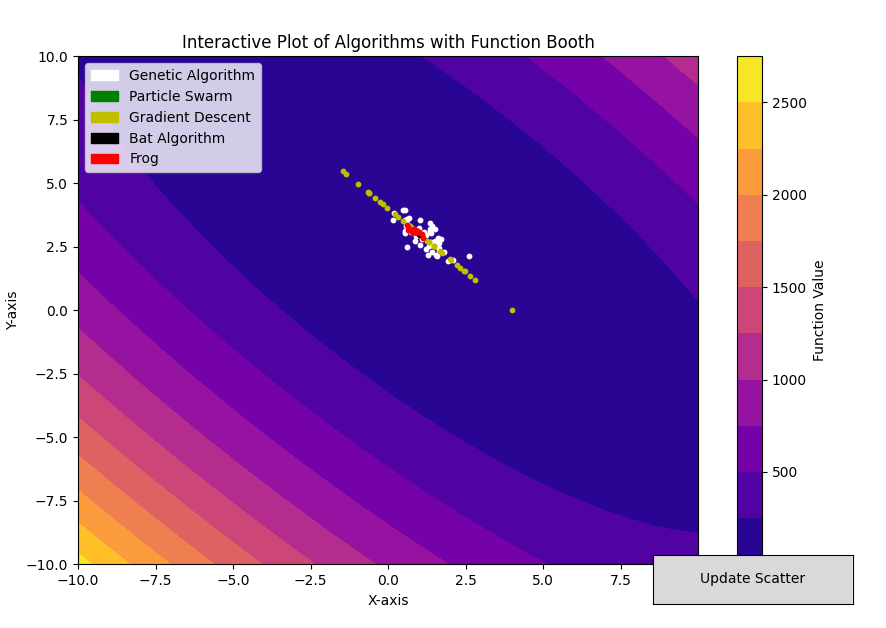
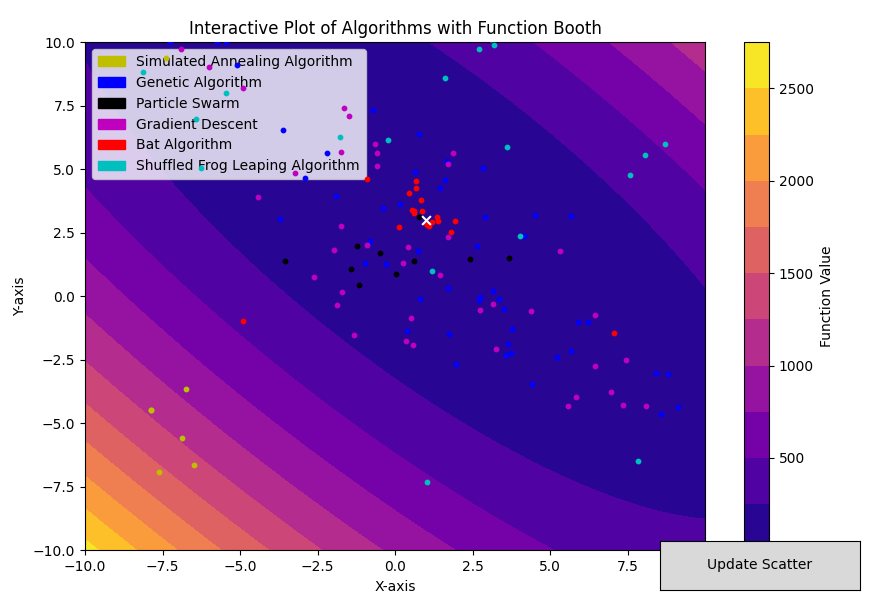
feat : almost done with informe

diff --git a/src/plot/simulated_annealing.py b/src/plot/simulated_annealing.py
@@ -2,60 +2,68 @@ import numpy as np
 from plot.alg import Alg
 from plot.bounded_function import BoundedFunction
 
+
 class SimulatedAnnealing(Alg):
-    def __init__(self, initial_temperature=1000, cooling_rate=0.99, final_temperature= 0.01, max_iterations=100000, x1_range = (-1, 1), x2_range = (-1, 1)):
+    def __init__(
+        self,
+        initial_temperature=1000,
+        x1_range=(-1, 1),
+        x2_range=(-1, 1),
+        cooling_rate = 0.01
+    ):
         super().__init__("Simulated Annealing Algorithm", x1_range, x2_range)
+        self.current_temperature = initial_temperature
+        self.current_solution = None
         self.initial_temperature = initial_temperature
         self.cooling_rate = cooling_rate
-        self.final_temperature = final_temperature
-        self.temperature = initial_temperature
-        self.max_iterations = max_iterations
-        self.current_temperature = initial_temperature
-        self.best_solution = None
-        self.function_value = None
-        self.current_solution = None
-        self.bounds = None
-        self.point = []
+        self.iteration = 0
+        self.points = []
 
     def get_points(self) -> list[tuple[float, float]]:
-        return self.point
+        return self.points
 
-    def update_points(self, f : BoundedFunction):
-        best_f = f(self.current_solution)
-        self.best_pos = self.best_solution.copy()
-        new_x = self.x + np.random.normal(0, 0.1, size=len(self.bounds))
-        new_x = np.clip(new_x, self.bounds[:, 0], self.bounds[:, 1])
+    def check_inside(self, el):
+        x = el[0]
+        y = el[1]
+        if el[0] < self.x1_range[0]:
+            x = self.x1_range[0]
+        if el[0] > self.x1_range[1]:
+            x = self.x1_range[1]
+        if el[1] < self.x2_range[0]:
+            y = self.x2_range[0]
+        if el[1] > self.x2_range[1]:
+            y = self.x2_range[1]
+        return (x, y)
+
+    def update_points(self, f: BoundedFunction):
+        self.iteration += 1
+        best_f = f(self.best_pos)
         
+        new_x = self.current_solution
+
+        dx = np.random.normal(0, (self.x1_range[1] - self.x1_range[0])/10, size=1)
+        dy = np.random.normal(0, (self.x2_range[1] - self.x2_range[0])/10, size=1)
+
+        new_x = (new_x[0]+ dx[0], new_x[0]+dy[0])
+        new_x = self.check_inside(new_x)
+
         # Calculate the change in function value
-        delta_f = f(new_x) - f(self.x)
-        
-        if delta_f <= 0:
+        delta_f = f(new_x) - f(self.current_solution)
+        probability = np.exp(-delta_f / self.current_temperature)
+        if delta_f <= 0 or np.random.rand() < probability:
             # Accept if new solution is better
-            self.x = new_x
-            if f(self.x) < best_f:
-                self.best_solution = self.x.copy()
-                best_f = f(self.x)
-                self.point.append(self.x)
-        else:
-            # Accept with probability based on temperature
-            probability = np.exp(-delta_f / self.temperature)
-            if np.random.rand() < probability:
-                self.x = new_x
-                if f(self.x) < best_f:
-                    self.best_solution = self.x.copy()
-                    best_f = f(self.x)
-                    self.point.append(self.x)
-        
+            self.current_solution = new_x
+            new_fitness = f(self.current_solution)
+            if new_fitness < best_f:
+                self.best_pos = self.current_solution
+                best_f = new_fitness
         # Update temperature
-        self.temperature *= self.cooling_rate  # Cooling schedule
-        if self.temperature <= self.final_temperature:
-            return
- 
+        self.current_temperature = self.initial_temperature / np.log(self.iteration + 2)
+        self.points.append(self.current_solution)
+
     def initialize_points(self):
         dimensions = 2
-        self.bounds = np.array([(-100, 100), (-100, 100)])
+        self.bounds = np.array([self.x1_range, self.x2_range])
         x = np.array([np.random.uniform(b[0], b[1]) for b in self.bounds])
-        self.initial_point = x.copy()
-        self.best_solution = x.copy() 
-        self.x = x.copy()
-        self.current_solution = x.copy()
+        self.best_pos = x
+        self.current_solution = x

diff --git a/src/plot/main.py b/src/plot/main.py
@@ -22,8 +22,8 @@ call this function passing an Algoritm and a Function to Test.
 """
 
 one_plot([
+    SimulatedAnnealing(),
     Genetic_Algorithm(), 
     ParticleSwarm(10), 
-    GradientDescent(40),
     Bat(20),
-    SFLA("Frog",booth.f, 10, 10, 2, 6,6, 100, bounds=(-100, 100))], booth)
+    SFLA("Shuffled Frog Leaping Algorithm",bukin.f, 10, 10, 2, 6,6, 100, bounds=(-100, 100))], bukin)

diff --git a/report/Informe.md b/report/Informe.md
@@ -42,7 +42,7 @@ Particle Swarm Optimization with function Schaffer No. 1 and 100 runs
 
 ![](./images/pso_sc2.png)
 
-Podemos comprobar la eficacia de el algoritmo de Particle Swarm Optimization con la dos funciones anteriores, sin embargo con la función Bukin no es capaz de encontrar el mínimo con la misma eficacia.
+Podemos comprobar la eficacia de el algoritmo de Particle Swarm Optimization con la dos funciones anteriores dado que encontró el mínimo relativamente rápido y con desviación estándar baja, lo que significa estabilidad en el resultado. Sin embargo con la función Bukin no es capaz de encontrar el mínimo con la misma eficacia.
 
 Particle Swarm Optimization with function Bukin and 100 runs
 |                   |   Promedio |   Mediana |   Desv. Est. |
@@ -138,7 +138,7 @@ Shuffled Frog Leaping Algorithm with function Schaffer 2 and 20 runs
 | Error c.r. Mínimo | 3.4972e-16  | 0           |  9.90699e-16 |
 | Error c.r. Óptimo | 0.000566035 | 0.000476457 |  0.000382822 |
 
-Como se puede observar por las estadísticas la función Ripple No 25 fue en la peor comportamiento tuvo el algoritmo. La duración para converger de este algoritmo es bastante comparada con los restantes algoritmos. 
+Como se puede observar por las estadísticas la función Ripple No 25 fue en la peor comportamiento tuvo el algoritmo. La duración para converger de este algoritmo es bastante, más de segundo y medio, comparada con los restantes algoritmos. En los últimos dos casos la desviación estándar es baja por lo que posee estabilidad.
 
 ## Algoritmo Genético: Differential Evolution (DE)
 
@@ -366,9 +366,11 @@ Análogamente a como se hizo con los dos algoritmos anteriores :
 
 ![](./images/gen_beale.png)
 
+Como es posible comprobar en la imagen este algoritmo fue capaz de encontrar el mínimo en el caso de la función Ripple 25, con buenos resultados con respecto a rapidez y estabilidad en los tres parámetros que estamos comprobando. 
+
 ## Simulated Annealing:
 
-El algoritmo de Simulated Annealing es una técnica de optimización inspirada en el proceso de enfriamiento de metales fundidos. El cual funciona de la siguiente manera.
+El algoritmo de Simulated Annealing es una técnica de optimización inspirada en el proceso de enfriamiento de metales fundidos. 
 
 ### Funcionamiento del Algoritmo
 
@@ -384,156 +386,40 @@ El algoritmo de Simulated Annealing es una técnica de optimización inspirada e
 
 6. **Conclusión**: El algoritmo termina cuando la temperatura alcanza un valor mínimo o se supera el número máximo de iteraciones.
 
-Trabajamos con la función **Schaffer No. 1** y corrimos 20 veces el algoritmo obteniendo los siguientes resultados.
+Algunas estadísticas con respecto a algunas de las funciones usando este algoritmo:
 
-### Resultados de las 20 ejecuciones:
-```
-Ejecución 1:
-Duración: 0.0189 segundos
-Error absoluto promedio respecto al mínimo real: 0.425197
-Distancia euclidiana promedio respecto al punto óptimo real: 5.619342
-Diferencia estándar de la duración: 0.186079
-Punto óptimo encontrado: [1.1368224534254008, 3.589823835851483] en 0.08382150411093797
+Simulated Annealing Optimization with function Booth and 100 runs
+|                   |   Promedio |   Mediana |   Desv. Est. |
+|:------------------|-----------:|----------:|-------------:|
+| Duración          |  0.0261428 | 0.0224447 |    0.0152329 |
+| Error c.r. Mínimo | 41.6415    | 0.202242  |  137.499     |
+| Error c.r. Óptimo |  0.330224  | 1.66653   |    3.26605   |
 
-Ejecución 2:
-Duración: 0.0200 segundos
-Error absoluto promedio respecto al mínimo real: 0.430092
-Distancia euclidiana promedio respecto al punto óptimo real: 4.436518
-Diferencia estándar de la duración: 0.255969
-Punto óptimo encontrado: [-0.9866316854967326, -0.8947822967086092] en 0.0016017895036985474
+Simulated Annealing Optimization with function Ackley and 100 runs
+|                   |   Promedio |   Mediana |   Desv. Est. |
+|:------------------|-----------:|----------:|-------------:|
+| Duración          |  0.0596633 | 0.0585796 |    0.0300218 |
+| Error c.r. Mínimo |  1.14211   | 0.916012  |    0.762367  |
+| Error c.r. Óptimo |  0.148169  | 0.195648  |    0.175354  |
 
-Ejecución 3:
-Duración: 0.0196 segundos
-Error absoluto promedio respecto al mínimo real: 0.485535
-Distancia euclidiana promedio respecto al punto óptimo real: 8.764836
-Diferencia estándar de la duración: 0.056678
-Punto óptimo encontrado: [-4.855332909253431, 5.1746864579869] en 0.35870738098699984
-
-Ejecución 4:
-Duración: 0.0193 segundos
-Error absoluto promedio respecto al mínimo real: 0.479625
-Distancia euclidiana promedio respecto al punto óptimo real: 7.165770
-Diferencia estándar de la duración: 0.104972
-Punto óptimo encontrado: [-3.7054105440003666, -4.337000652170758] en 0.2631649389426926
-
-Ejecución 5:
-Duración: 0.0194 segundos
-Error absoluto promedio respecto al mínimo real: 0.498885
-Distancia euclidiana promedio respecto al punto óptimo real: 11.467669
-Diferencia estándar de la duración: 0.023224
-Punto óptimo encontrado: [6.197976092428567, 6.747486911855162] en 0.4387209330324816
-
-Ejecución 6:
-Duración: 0.0193 segundos
-Error absoluto promedio respecto al mínimo real: 0.440935
-Distancia euclidiana promedio respecto al punto óptimo real: 6.801864
-Diferencia estándar de la duración: 0.133201
-Punto óptimo encontrado: [4.737969792424383, -2.0195189270246656] en 0.2076971909123832
-
-Ejecución 7:
-Duración: 0.0200 segundos
-Error absoluto promedio respecto al mínimo real: 0.413074
-Distancia euclidiana promedio respecto al punto óptimo real: 4.743940
-Diferencia estándar de la duración: 0.241217
-Punto óptimo encontrado: [-2.1579382173071364, 0.1777609891762874] en 0.010872651154847424
-
-Ejecución 8:
-Duración: 0.0173 segundos
-Error absoluto promedio respecto al mínimo real: 0.449892
-Distancia euclidiana promedio respecto al punto óptimo real: 7.556039
-Diferencia estándar de la duración: 0.103038
-Punto óptimo encontrado: [4.479399508312773, -3.4476670171880945] en 0.26013888406960417
-
-Ejecución 9:
-Duración: 0.0172 segundos
-Error absoluto promedio respecto al mínimo real: 0.408343
-Distancia euclidiana promedio respecto al punto óptimo real: 4.295763
-Diferencia estándar de la duración: 0.261807
-Punto óptimo encontrado: [1.5763245271440545, -0.10608221257438] en 0.00587512482989172
-
-Ejecución 10:
-Duración: 0.0171 segundos
-Error absoluto promedio respecto al mínimo real: 0.490583
-Distancia euclidiana promedio respecto al punto óptimo real: 9.750970
-Diferencia estándar de la duración: 0.037718
-Punto óptimo encontrado: [-7.457797967982029, 3.4084534087356717] en 0.4096072042755916
-
-Ejecución 11:
-Duración: 0.0171 segundos
-Error absoluto promedio respecto al mínimo real: 0.492327
-Distancia euclidiana promedio respecto al punto óptimo real: 8.214255
-Diferencia estándar de la duración: 0.078644
-Punto óptimo encontrado: [4.802775751974287, -2.5574098752873646] en 0.23617214341498338
-
-Ejecución 12:
-Duración: 0.0173 segundos
-Error absoluto promedio respecto al mínimo real: 0.472534
-Distancia euclidiana promedio respecto al punto óptimo real: 8.043638
-Diferencia estándar de la duración: 0.083699
-Punto óptimo encontrado: [-6.3379586959607375, 0.12606992631186115] en 0.31298395090989656
-
-Ejecución 13:
-Duración: 0.0176 segundos
-Error absoluto promedio respecto al mínimo real: 0.496138
-Distancia euclidiana promedio respecto al punto óptimo real: 10.061214
-Diferencia estándar de la duración: 0.036045
-Punto óptimo encontrado: [-5.564985506090534, -5.93765801293203] en 0.4079926258918129
-
-Ejecución 14:
-Duración: 0.0171 segundos
-Error absoluto promedio respecto al mínimo real: 0.494337
-Distancia euclidiana promedio respecto al punto óptimo real: 11.090152
-Diferencia estándar de la duración: 0.025917
-Punto óptimo encontrado: [-8.399077284835508, 3.8626608869776633] en 0.43979078193994703
-
-Ejecución 15:
-Duración: 0.0170 segundos
-Error absoluto promedio respecto al mínimo real: 0.323071
-Distancia euclidiana promedio respecto al punto óptimo real: 2.217684
-Diferencia estándar de la duración: 0.336957
-Punto óptimo encontrado: [0.0016592610102741934, -0.03823588088993811] en 1.0773283376508402e-09
-
-Ejecución 16:
-Duración: 0.0176 segundos
-Error absoluto promedio respecto al mínimo real: 0.496261
-Distancia euclidiana promedio respecto al punto óptimo real: 10.022585
-Diferencia estándar de la duración: 0.033621
-Punto óptimo encontrado: [6.693177120804245, 5.136965165850739] en 0.4243882198188733
-
-Ejecución 17:
-Duración: 0.0169 segundos
-Error absoluto promedio respecto al mínimo real: 0.331680
-Distancia euclidiana promedio respecto al punto óptimo real: 2.797162
-Diferencia estándar de la duración: 0.330230
-Punto óptimo encontrado: [-0.46778701712615484, 1.6902915240565064] en 0.006001492190780056
-
-Ejecución 18:
-Duración: 0.0174 segundos
-Error absoluto promedio respecto al mínimo real: 0.381985
-Distancia euclidiana promedio respecto al punto óptimo real: 5.229741
-Diferencia estándar de la duración: 0.220726
-Punto óptimo encontrado: [-3.201120678726288, 2.090846934865072] en 0.09349205610169137
-
-Ejecución 19:
-Duración: 0.0183 segundos
-Error absoluto promedio respecto al mínimo real: 0.359209
-Distancia euclidiana promedio respecto al punto óptimo real: 4.805017
-Diferencia estándar de la duración: 0.251893
-Punto óptimo encontrado: [-2.5723662674987953, 0.09899962541314283] en 0.025315245645719242
-
-Ejecución 20:
-Duración: 0.0189 segundos
-Error absoluto promedio respecto al mínimo real: 0.487740
-Distancia euclidiana promedio respecto al punto óptimo real: 9.853454
-Diferencia estándar de la duración: 0.038148
-Punto óptimo encontrado: [6.81702689407828, 5.286765810413013] en 0.4236799345398037
+Simulated Annealing Optimization with function Beale and 100 runs
+|                   |   Promedio |   Mediana |   Desv. Est. |
+|:------------------|-----------:|----------:|-------------:|
+| Duración          |  0.0237364 | 0.0205396 |     0.012358 |
+| Error c.r. Mínimo | 15.9937    | 0.495764  |    49.5673   |
+| Error c.r. Óptimo |  0.746825  | 1.40831   |     2.01103  |
 
 
-Estadísticas finales:
-Duración media total: 0.0182 segundos
-Error absoluto promedio respecto al mínimo real: 0.442872
-Distancia euclidiana promedio respecto al punto óptimo real: 7.146881 
-```
+![](./images/sa_booth.png)
 
-### Valoración
-Los puntos óptimos encontrados varían significativamente entre ejecuciones, indicando que el algoritmo puede converger a diferentes soluciones óptimas dependiendo de la configuración inicial y las iteraciones realizadas. El error absoluto promedio respecto al mínimo real oscila entre 0.323071 y 0.498885, lo que sugiere una cierta precisión en la búsqueda del punto óptimo. Con valores entre 2.217684 y 11.467669, muestra que algunos puntos óptimos están relativamente cerca del punto óptimo real, mientras que otros están más lejanos. Las duraciones promedio son muy cortas (0.0182 segundos), lo cual es positivo para aplicaciones que requieren cálculos rápidos. Ejecuciones como la 15 y la 17 muestran errores absolutos muy bajos (0.323071 y 0.331680 respectivamente), sugiriendo que en ocasiones el algoritmo logra encontrar soluciones muy cercanas al optimo real.  No parece haber una clara correlación entre la duración de la ejecución y la precisión del resultado óptimo.
+![](./images/sa_ripple.png)
+
+## Valoración
+
+Los puntos óptimos encontrados varían significativamente entre ejecuciones, indicando que el algoritmo puede converger a diferentes soluciones óptimas dependiendo de la configuración inicial y las iteraciones realizadas.
+
+### Conclusiones
+
+Pudimos comprobar y visualizar los métodos usados por estos algoritmos en su mayoría estocásticos para encontrar el mínimo global de una función, algunos resultan mejores que otros dependiendo de las funciones escogidas. Con la función Bukin apreciamos que tan díficil puede resultar encontrar este mínimo global.
+
+![](./images/buk.png)
